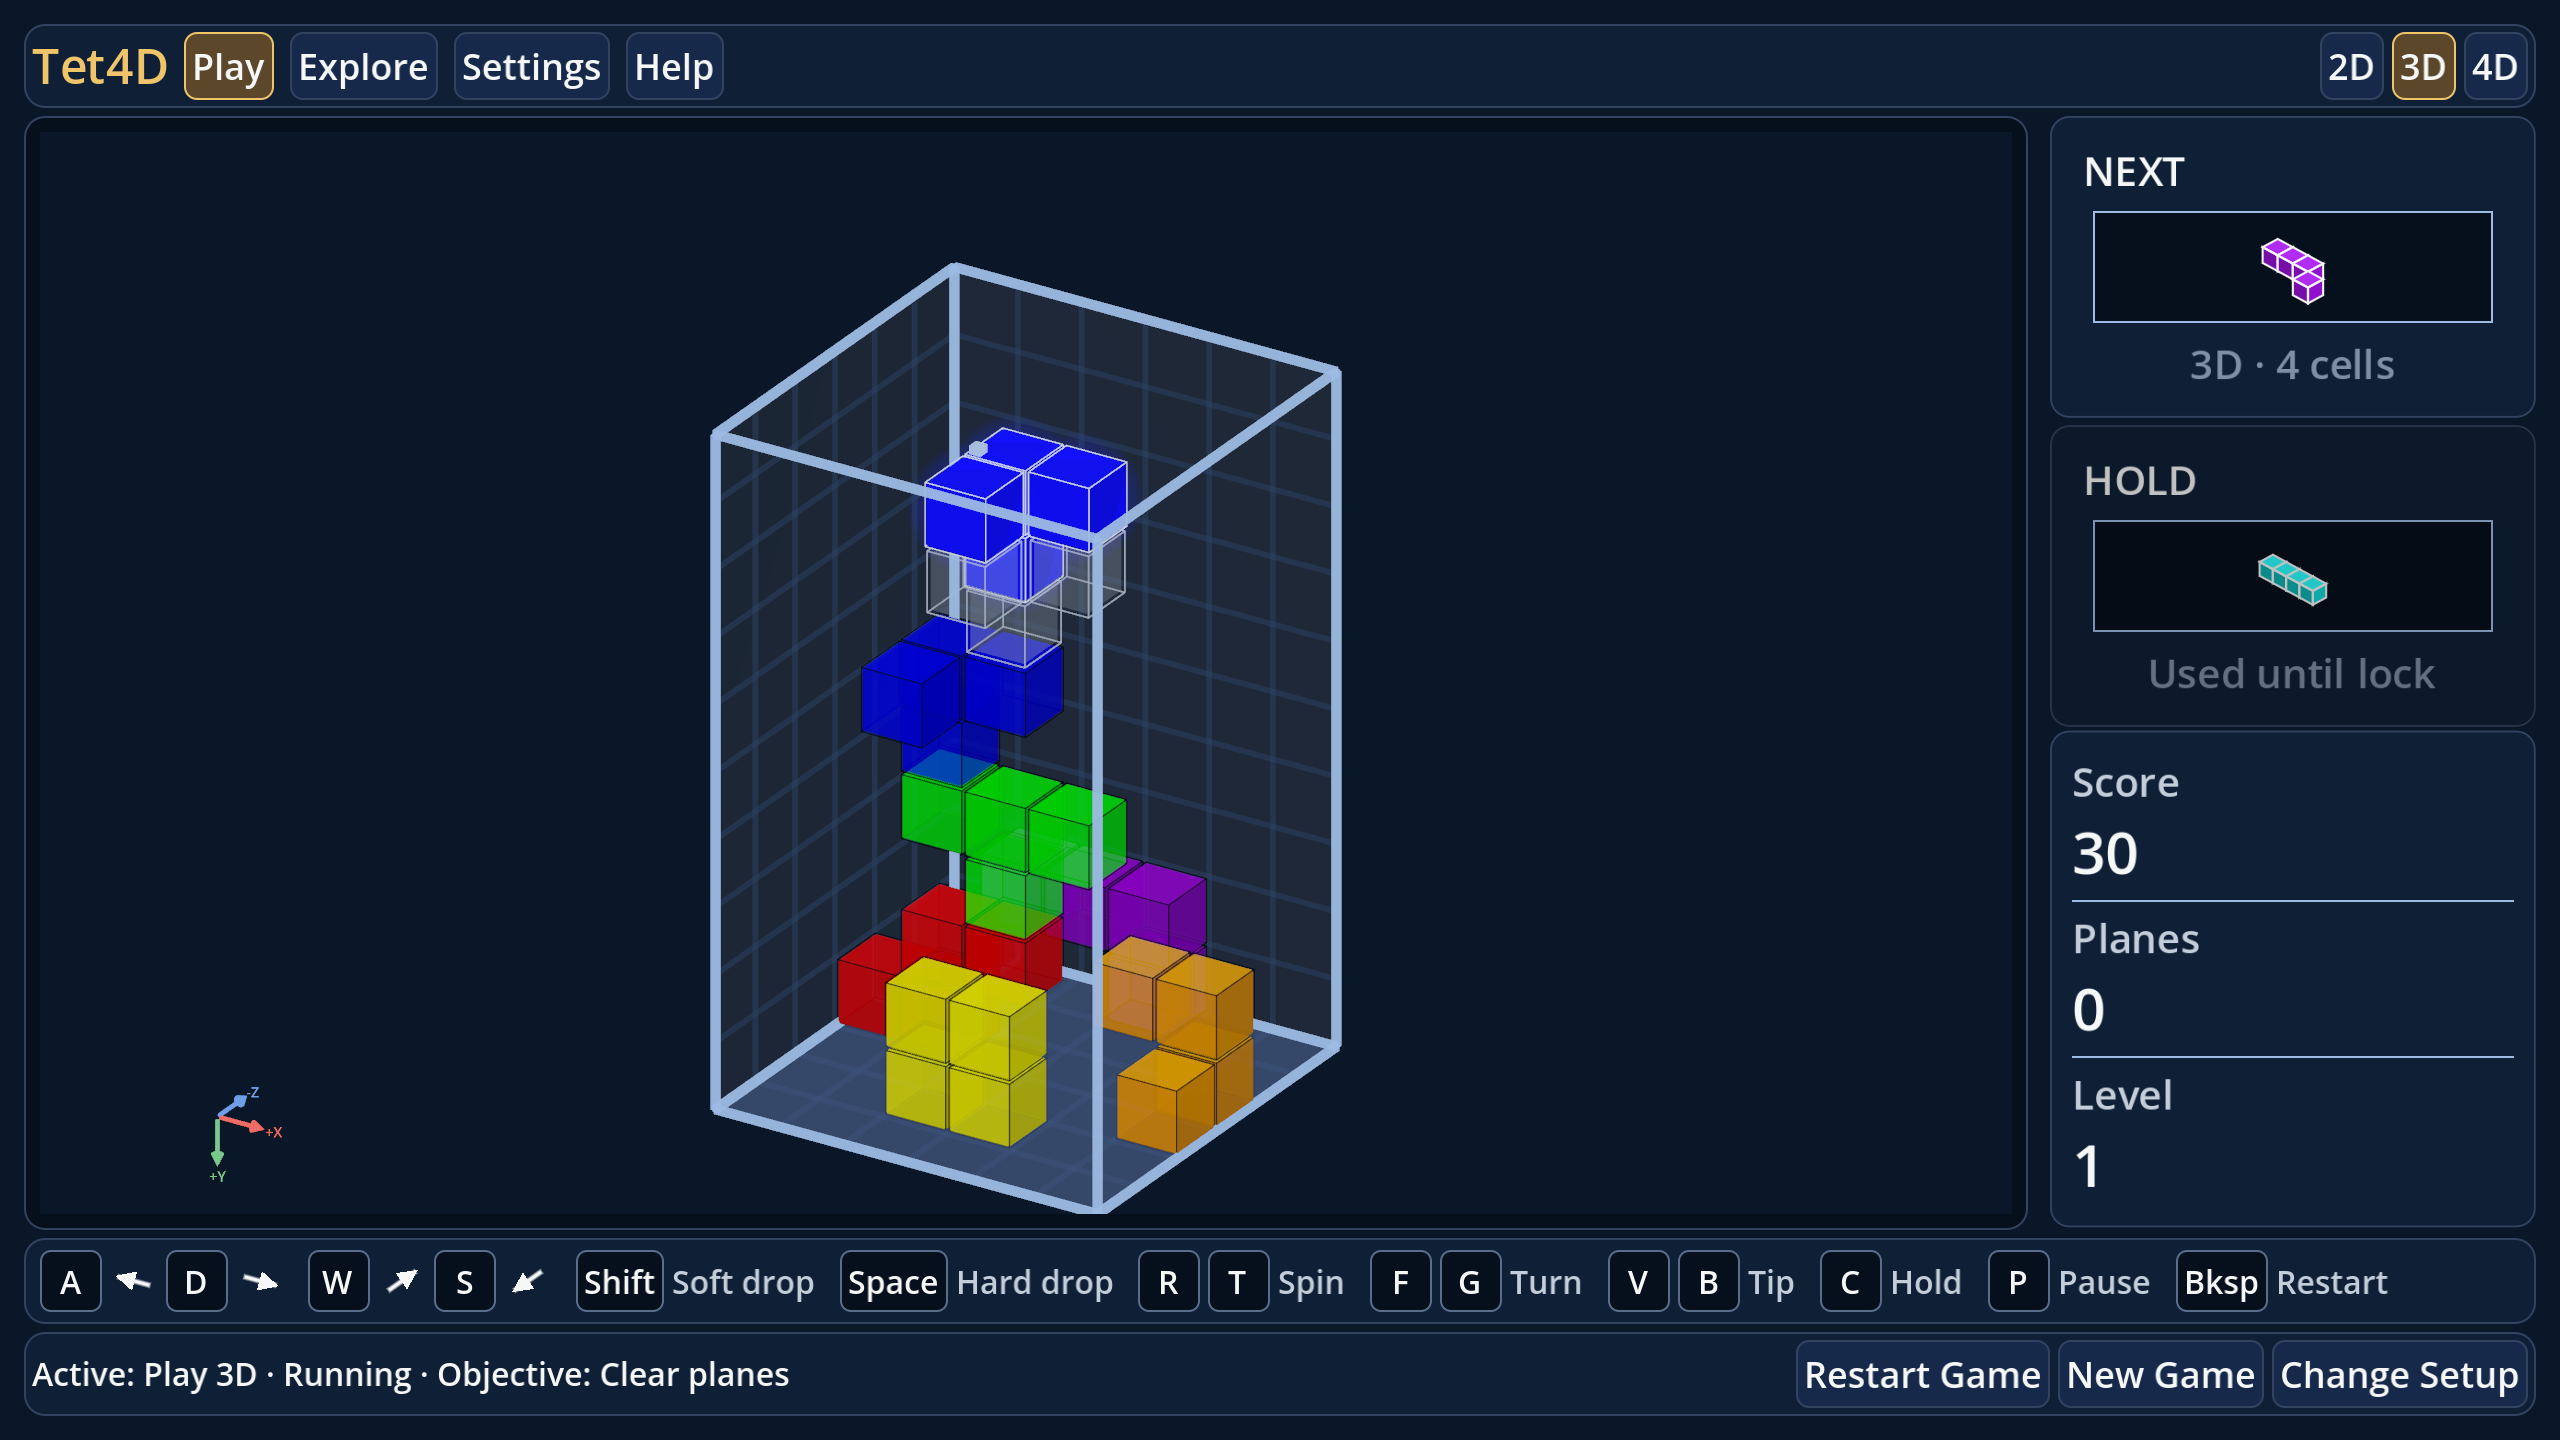
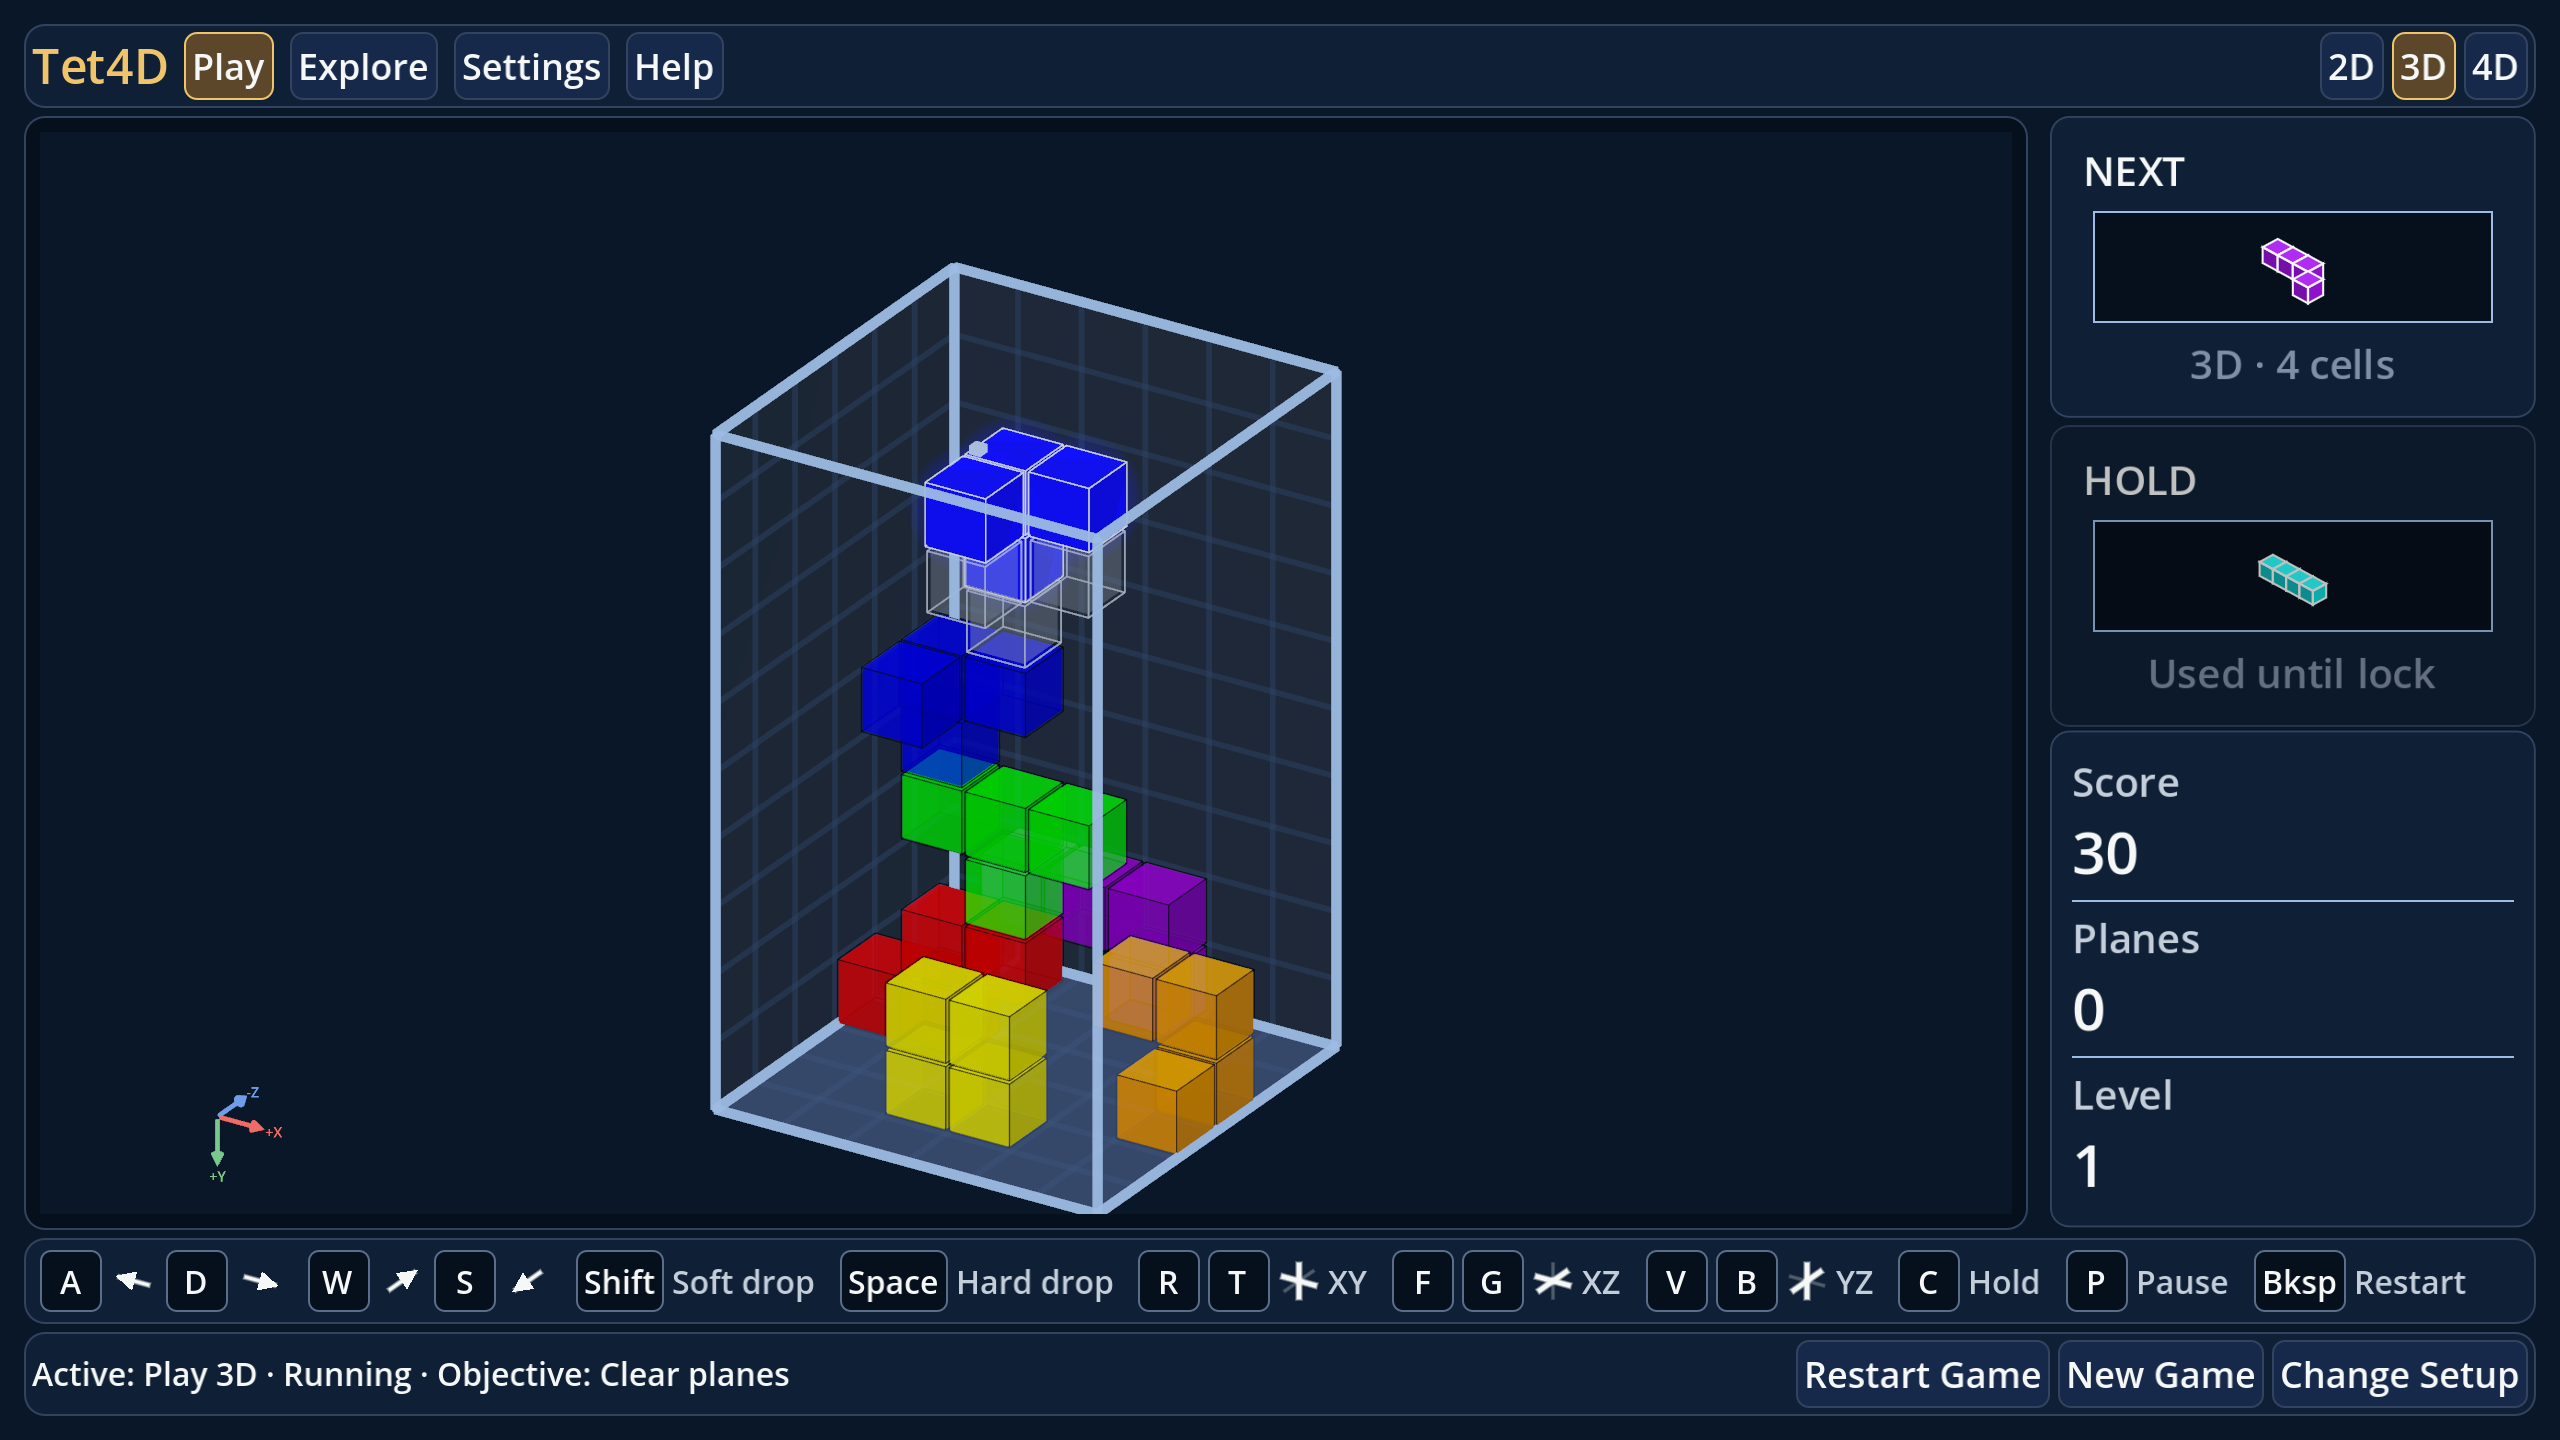
Keep rotation pairs together in Concept A’s footer

Changed region(s): [[0.5, 0.8438, 0.9688, 0.9375]]

diff --git a/CURRENT_STATE.md b/CURRENT_STATE.md
@@ -17,7 +17,8 @@ P3 keeps the approved Concept A cockpit as the default and offers Concept B
 with header stats and side controls. Both keep separate W slices. P3 review follow-up covers board allocation,
 legend visibility and full-size capture evidence. The layout lock measures
 well outlines separately from camera-fit padding. The owner directed
-compact footer controls with inline movement arrows for A and grouped
+compact footer controls with inline movement arrows and rotation-plane
+glyphs for A and grouped
 spatial controls for B. Follow-up covers preview captions, compact-footer
 spacing and player-facing W-slice labels. The latest review integrates the
 larger wells, empty HOLD slot and Concept B stats header. Tighter W gutters

diff --git a/docs/plans/graphical_language_adoption.md b/docs/plans/graphical_language_adoption.md
@@ -157,7 +157,8 @@ describes the older "calm instrument" look.
   small-window checks.
 - P3 review checks cover the projected well outline without spawn headroom
   and complete legends at the standard capture window. The owner confirmed
-  compact footer controls with inline directional arrows for A and the
+  compact footer controls with inline movement arrows and rotation-plane
+  glyphs for A and the
   grouped legend with MOVE compass and rotation-plane glyphs and labels for B. Concept B pairs NEXT and HOLD
   across one row in 3D/4D to fit the legend at standard scale.
   Full-size ready and seeded midgame captures show both layout choices.

diff --git a/docs/design/screenshots/graphical_language_p3/README.md b/docs/design/screenshots/graphical_language_p3/README.md
@@ -15,7 +15,8 @@ Concept A on the left and Concept B on the right.
 
 The owner approved both cockpit arrangements, with Concept A as the default
 and separate W slices in both. Concept A keeps the compact footer with inline
-arrows beside the spatial movement keys. Concept B shows the grouped spatial
+arrows beside the spatial movement keys and rotation glyphs beside each
+paired binding. Concept B shows the grouped spatial
 legend in the side rail, with NEXT and HOLD paired above it in 3D and 4D.
 
 [Concept A 3D at 1280 × 720](concept-a-3d-1280x720.png) shows the opening

diff --git a/docs/BACKLOG.md b/docs/BACKLOG.md
@@ -33,7 +33,8 @@ Completed chronology is recoverable from Git, merged PRs, CI, and
 
 - P3 review: recover board height, lock standard-window legend visibility,
   highlight Start and retain full-size Ready and seeded midgame evidence for
-  both layouts, with inline movement arrows in A and the grouped legend in B.
+  both layouts, with inline movement and rotation glyphs in A and the
+  grouped legend in B.
   Preserve live-only tighter W spacing and the 1280 × 720 3D allocation
   floor when integrating the reviewed cockpit refinements.
 

diff --git a/docs/CONFIGURATION_REFERENCE.md b/docs/CONFIGURATION_REFERENCE.md
@@ -2769,6 +2769,7 @@ Parameters:
 - `cockpit.inline_arrow.line_width`: `2.0` (`float`)
 - `cockpit.inline_arrow.size`: `24.0` (`float`)
 - `cockpit.inline_arrow.span_factor`: `0.32` (`float`)
+- `cockpit.inline_plane_glyph_size`: `21.0` (`float`)
 - `cockpit.plane_glyph_size`: `30.0` (`float`)
 - `cockpit.stat_divider_thickness`: `1.0` (`float`)
 - `description`: `"Tuning values for the owner graphical language (docs/design/graphica...` (`string`)
